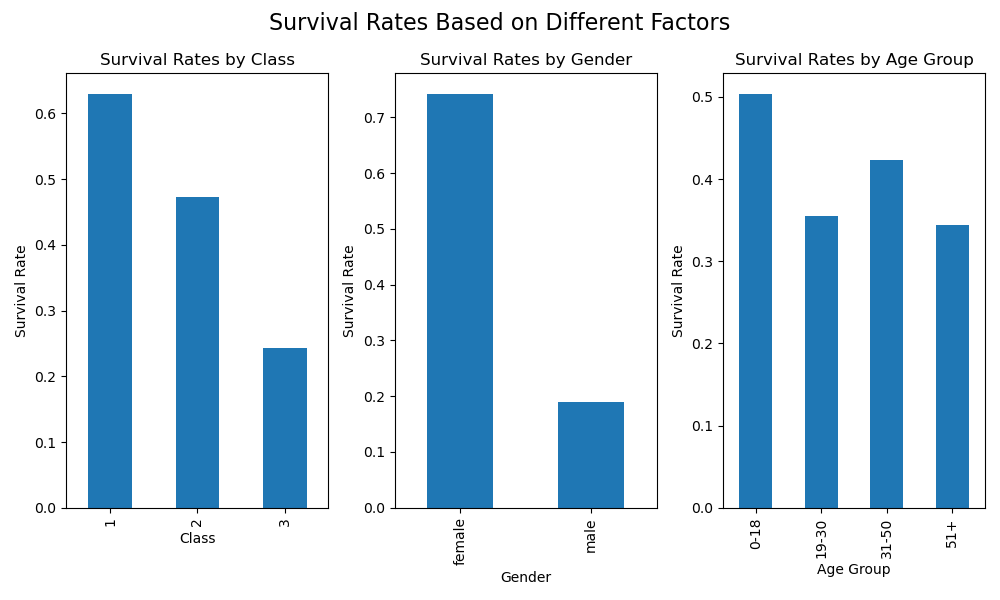
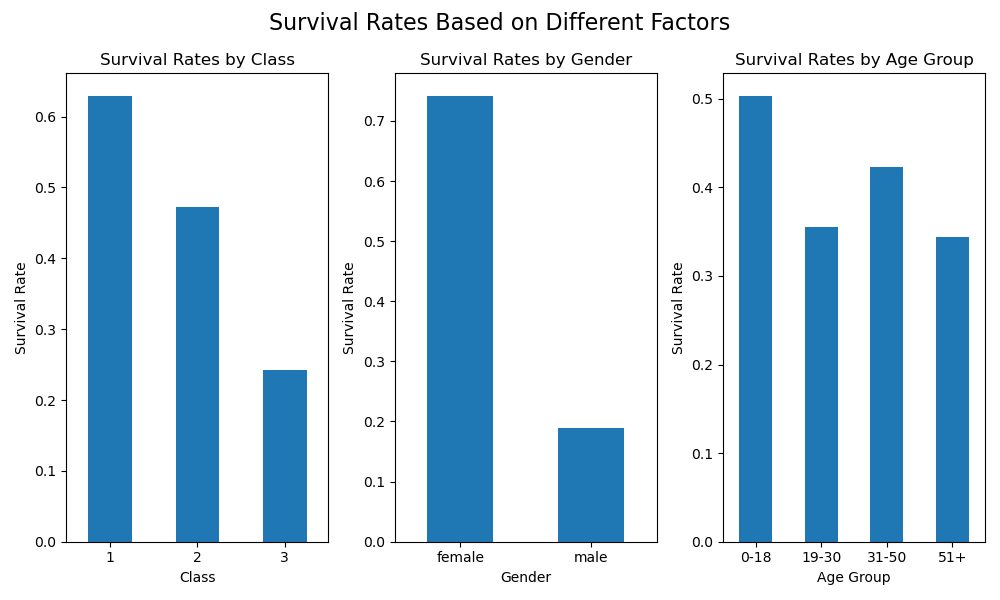
add figures

diff --git a/Titanic/titanic.py b/Titanic/titanic.py
@@ -1,4 +1,6 @@
 import pandas as pd
+import numpy as np
+from mpl_toolkits.mplot3d import Axes3D
 import matplotlib.pyplot as plt
 
 
@@ -29,12 +31,14 @@ class_survival_rates.plot(kind='bar')
 plt.title('Survival Rates by Class')
 plt.xlabel('Class')
 plt.ylabel('Survival Rate')
+plt.xticks(rotation=0)
 
 plt.subplot(1, 3, 2)
 gender_survival_rates.plot(kind='bar')
 plt.title('Survival Rates by Gender')
 plt.xlabel('Gender')
 plt.ylabel('Survival Rate')
+plt.xticks(rotation=0)
 
 plt.subplot(1, 3, 3)
 age_group_survival_rates.plot(kind='bar')
@@ -42,6 +46,7 @@ plt.title('Survival Rates by Age Group')
 plt.xlabel('Age Group')
 plt.ylabel('Survival Rate')
 plt.suptitle('Survival Rates Based on Different Factors', fontsize=16)
+plt.xticks(rotation=0)
 plt.tight_layout()
 plt.savefig('Figure_1.png')
 plt.show()
@@ -59,7 +64,61 @@ age_distribution_by_class.plot(kind='bar')
 plt.title('Age Distribution by Passenger Class')
 plt.xlabel('Passenger Class')
 plt.ylabel('Average Age')
-
+plt.xticks(rotation=0)
 plt.tight_layout()
 plt.savefig('Figure_2.png')
 plt.show()
+
+
+#############################################################################
+#  Age distribution of passengers according to passenger classes survived and genders.
+#############################################################################
+
+# Group data by passenger class, survival status, and gender
+#grouped_data = titanic_data.groupby(['Pclass', 'Survived', 'Sex'])['Age'].mean().reset_index()
+# Create separate dataframes for survived
+grouped_data = titanic_data.loc[titanic_data['Survived'] == 1]
+# Create new dataframes for each gender
+df_male = grouped_data.loc[grouped_data['Sex'] == 'male']
+df_female = grouped_data.loc[grouped_data['Sex'] == 'female']
+# create male part
+x = df_male['Age']
+y = df_male['Pclass']
+plt.scatter(x,y)
+# create female part
+
+
+
+
+# Show the plot
+plt.savefig('Figure_3.png')
+plt.show()
+
+
+#############################################################################
+
+
+
+
+
+
+#############################################################################
+#  Relationship with Parch number and survival rate.
+#############################################################################
+# Calculate survival rates based on number of parents/children aboard
+parch_survival_rates = titanic_data.groupby('Parch')['Survived'].mean()
+# Plot the survival rates
+plt.figure(figsize=(10, 6))
+parch_survival_rates.plot(kind='bar')
+plt.title('Survival Rates by Number of Parents/Children Aboard')
+plt.xlabel('Number of Parents/Children Aboard')
+plt.xticks(rotation=0)
+plt.ylabel('Survival Rate')
+plt.tight_layout()
+plt.savefig('Figure_4.png')
+plt.show()
+
+#############################################################################
+#  Relationship with SibSp number and survival rate.
+#############################################################################
+

diff --git a/Titanic/test.py b/Titanic/test.py
@@ -1,0 +1,20 @@
+import pandas as pd
+import numpy as np
+from mpl_toolkits.mplot3d import Axes3D
+import matplotlib.pyplot as plt
+
+titanic_data = pd.read_csv('titanic.csv')
+
+# Group data by passenger class, survival status, and gender
+#grouped_data = titanic_data.groupby(['Pclass', 'Survived', 'Sex'])['Age'].mean().reset_index()
+# Create separate dataframes for survived
+grouped_data = titanic_data.loc[titanic_data['Survived'] == 1]
+# Create new dataframes for each gender
+df_male = grouped_data.loc[grouped_data['Sex'] == 'male']
+df_female = grouped_data.loc[grouped_data['Sex'] == 'female']
+# create male part
+x = df_male['Age']
+y = df_male['Pclass']
+plt.scatter(x,y, color='blue',s=5)
+# create female part
+plt.show()
